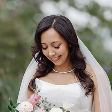
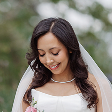
content updates

diff --git a/index.html b/index.html
@@ -314,7 +314,7 @@
           <div class="features">
             <div class="feature reveal">
               <p class="subheading">Custom Setlist</p>
-              <p>Choose from my <a class="nav-music-2 inline">repertoire</a> of 175+ songs <em>(add'l fee applies for outside requests)</em>.</p> <!-- repertoire count as of 08/31/2026: 178 -->
+              <p>Choose from my <a class="nav-music-2 inline">repertoire</a> of 180+ songs <em>(add'l fee applies for outside requests)</em>.</p> <!-- repertoire count as of 10/03/2026: 184 -->
             </div>
             <div class="feature reveal second">
               <p class="subheading">Ceremony Recordings</p>
@@ -363,15 +363,19 @@
                       All of Me ∙ John Legend<br>
                       Budapest ∙ George Ezra<br>
                       Coming Up Roses ∙ Harry Styles<br>
+                      Clarity ∙ Zedd and Foxes<br>
                       Dance the Night ∙ Dua Lipa<br>
                       Die with a Smile ∙ Lady Gaga and Bruno Mars<br> 
                       Drivers License ∙ Olivia Rodrigo<br>
                       Enchanted ∙ Taylor Swift<br>
                       Everything ∙ Michael Bublé<br>
+                      Everytime We Touch ∙ Cascada<br>
+                      Faded ∙ Alan Walker<br>
                       Fake Love ∙ BTS<br>
                       Give Me Everything ∙ Pitbull, AFROJACK, and Ne-Yo ft. Nayer<br>
                       Golden ∙ Ejae, Audrey Nuna, and Rei Ami<br>
                       Golden Hour ∙ JVKE<br>
+                      Good Things Fall Apart ∙ ILLENIUM and Jon Bellion<br>
                       Gratitude ∙ Brandon Lake<br>
                       Haven't Met You Yet ∙ Michael Bublé<br>
                       I Wish You Love ∙ Laufey<br>
@@ -414,6 +418,7 @@
                       Still Into You ∙ Paramore<br>
                       Story of My Life ∙ One Direction<br>
                       Sweet Pumpkin ∙ Samara Joy<br>
+                      The Nights ∙ Avicii<br>
                       Thinking out Loud ∙ Ed Sheeran<br>
                       To Build a Home ∙ The Cinematic Orchestra and Patrick Watson<br>
                       Turning Page ∙ Sleeping at Last<br>
@@ -421,6 +426,7 @@
                       Valentine ∙ Laufey<br>
                       Valerie ∙ The Zutons<br>
                       Viva La Vida ∙ Coldplay<br>
+                      Wake Me Up ∙ Avicii<br>
                       We Found Love ∙ Rihanna and Calvin Harris<br>
                       Wildest Dreams ∙ Taylor Swift<br>
                       Yellow ∙ Coldplay<br>
@@ -445,6 +451,7 @@
                       Bennie and the Jets ∙ Elton John<br>
                       Bohemian Rhapsody ∙ Queen<br>
                       Can You Feel the Love Tonight ∙ Elton John<br>
+                      Con Te Partirò (Time to Say Goodbye) ∙ Andrea Bocelli<br>
                       Creep ∙ Radiohead<br>
                       Dancing Queen ∙ ABBA<br>
                       Don't Stop Believin' ∙ Journey<br>
@@ -462,7 +469,6 @@
                       Slipping Through My Fingers ∙ ABBA<br>
                       Take Me Home, Country Roads ∙ John Denver<br>
                       Time After Time ∙ Cyndi Lauper<br>
-                      Time to Say Goodbye ∙ Andrea Bocelli and Sarah Brightman<br>
                       Vienna ∙ Billy Joel<br>
                       Y.M.C.A. ∙ Village People<br>
                       Your Song ∙ Elton John

diff --git a/js/main.js b/js/main.js
@@ -368,7 +368,7 @@ const reviews = [
     adPlatformLink: "https://share.google/nbOKlWpMNAy7DfqIE",
     body: "Hiring Jeff to play viola at our wedding was one of the best decisions we made for our special day. From my very first inquiry, he was professional, communicative, and incredibly accommodating. He kept in touch throughout the planning process, and I always felt like we were in great hands.\n\nWhen we met in person, he was just as wonderful as I expected. He is so personable and genuinely makes you feel comfortable right away. And of course, his talent speaks for itself, his music was beautiful from beginning to end.\n\nOne of the most special moments for me was walking down the aisle to “A Thousand Years” by Christina Perri. I had a very specific vision for how I wanted it to sound, and Jeff brought that vision to life perfectly. It was emotional, beautiful, and honestly everything I had imagined.\n\nOur guests couldn’t stop talking about the viola music and how elegant and classy it made the wedding feel. Jeff was also early and completely prepared, which meant so much on a day when there are already a million things happening.\n\nEverything about working with him was flawless. I would absolutely recommend Jeff to anyone looking for a talented, professional, and genuinely wonderful violist. I will definitely be hiring him for future events!",
     note: "\nThis review has been edited for clarity.",
-    clientPhoto: "assets/imgs/4-testimonials/client-photos/danielle-temp.jpg",
+    clientPhoto: "assets/imgs/4-testimonials/client-photos/danielle.jpg",
     name: "Danielle",
     metadata: "Bride ∙ Sep 2026"
   },
